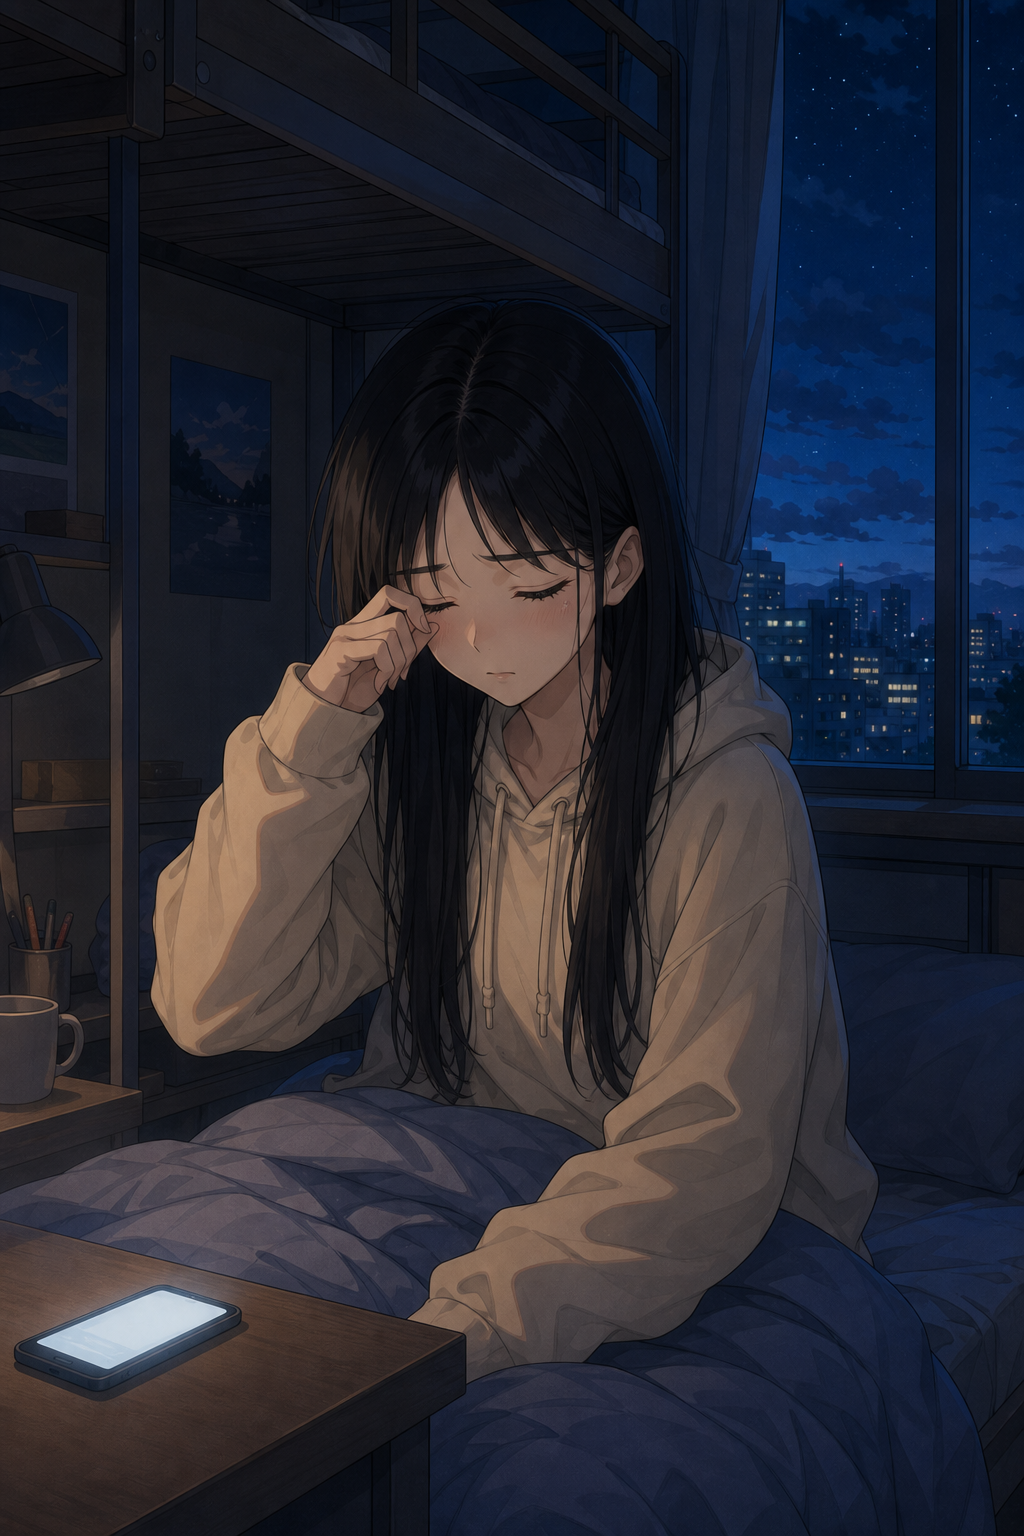
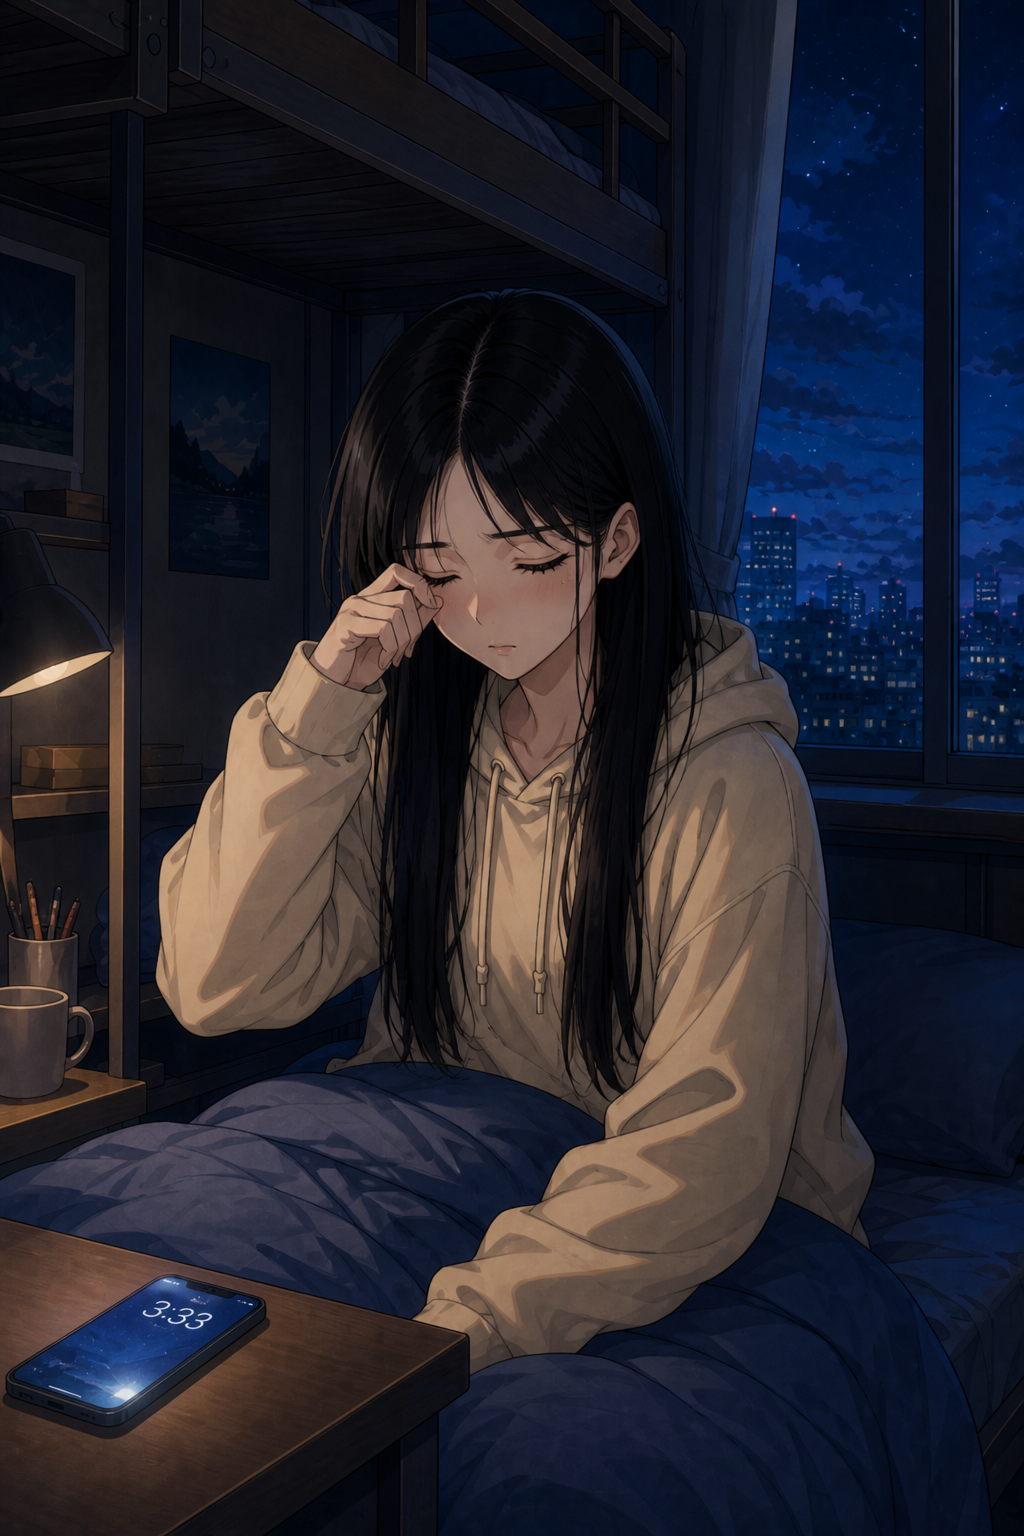
Change retracted-line reveal time from 4:44 to 3:33.
Update episode 4 lockscreen stills and the shot list so the cost beat is easier to say on camera.

diff --git a/ep04-v3/SHOTS.md b/ep04-v3/SHOTS.md
@@ -3,6 +3,8 @@
 画风：新海诚 / CoMix Wave（2D 动画，不是真人）。
 约 80 秒。即梦：Seedance 2.0 Fast VIP，9:16，720P，5 秒一段。有人对白镜挂角色参考（脸+全身）。不要 BGM，不要生成中文。锁屏字用剪映加。
 
+**能力代价时间：每天 3:33。** 被撤回的原句，次日凌晨三点三三出现在对方会看见的锁屏上。不说 4:44。
+
 服装锁死：阿名=军绿棒球夹克+灰T+黑牛仔裤+白鞋；陈夏=米色宽松卫衣+浅蓝牛仔裤+白鞋；周倩=浅粉开衫。
 
 ## 时间轴
@@ -21,8 +23,8 @@
 | 50–55 | `ep4-she-soft.png` | 微推 | 夏（轻）：你今天挺不一样。 |
 | 55–60 | `ep4-afterclass.png` | 慢跟 | 名：看情况。 |
 | 60–65 | `ep4-he-look.png` | 静止 | 夏：{看对象吧。} |
-| 65–70 | `ep4-dorm-wake.png` | 静止 | 空。宿舍夜。 |
-| 70–75 | `ep4-phone-444.png` | 微推 | 剪映字：你这都能忘？ |
+| 65–70 | `ep4-dorm-wake.png` | 静止 | 空。宿舍夜。锁屏 3:33。 |
+| 70–75 | `ep4-phone-333.png` | 微推 | 剪映字：你这都能忘？ |
 | 75–80 | `ep4-face-shock.png` | 静止 | 夏：又是这句……明天我不让你停。 |
 
 钩子接第5集：白天逼他说完，不给撤。
